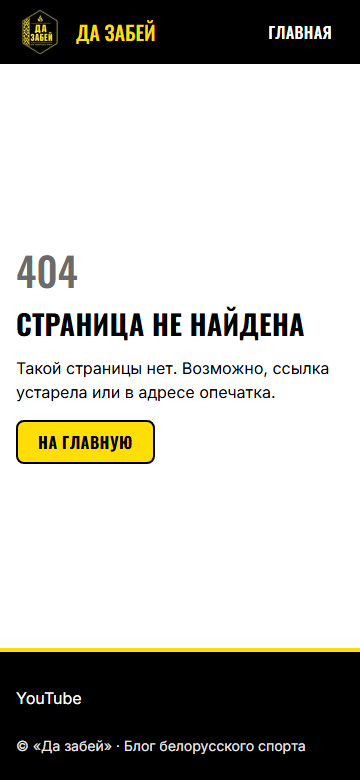
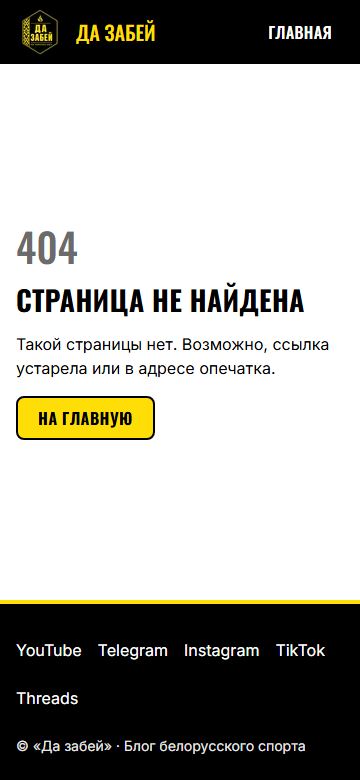
feat(layout): add confirmed social links to the footer (DAZBY-25)

Changed region(s): [[0.0306, 0.2769, 0.9167, 0.6154], [0.0, 0.7692, 1.0, 0.9231]]

diff --git a/src/config/site.ts b/src/config/site.ts
@@ -1,13 +1,13 @@
 /**
- * Site-wide links. An empty URL hides the link: Telegram, Instagram and TikTok
- * stay hidden until the owner confirms the addresses (DAZBY-25).
+ * Site-wide links (confirmed by the owner, DAZBY-25). An empty URL hides the link.
  */
 export const siteConfig = {
   social: [
     { id: "youtube", url: "https://www.youtube.com/@da_zby" },
-    { id: "telegram", url: "" },
-    { id: "instagram", url: "" },
-    { id: "tiktok", url: "" },
+    { id: "telegram", url: "https://t.me/da_zby" },
+    { id: "instagram", url: "https://www.instagram.com/da_zby" },
+    { id: "tiktok", url: "https://www.tiktok.com/@da_zby" },
+    { id: "threads", url: "https://www.threads.com/@da_zby" },
   ],
   /** Header navigation: only pages that already exist. */
   nav: [{ id: "home", href: "/" }],

diff --git a/src/components/layout/layout.test.tsx b/src/components/layout/layout.test.tsx
@@ -26,6 +26,19 @@ describe("SiteHeader", () => {
 });
 
 describe("SiteFooter", () => {
+  it("shows every confirmed social link", () => {
+    render(<SiteFooter />);
+    const nav = screen.getByRole("navigation", { name: "Мы в соцсетях" });
+    const names = within(nav)
+      .getAllByRole("link")
+      .map((link) => link.textContent?.replace(/\s*\(.*\)$/, "").trim());
+    expect(names).toEqual(["YouTube", "Telegram", "Instagram", "TikTok", "Threads"]);
+    expect(within(nav).getByRole("link", { name: /Telegram/ })).toHaveAttribute(
+      "href",
+      "https://t.me/da_zby",
+    );
+  });
+
   it("shows YouTube and hides socials without a URL", () => {
     render(<SiteFooter />);
     const nav = screen.getByRole("navigation", { name: "Мы в соцсетях" });

diff --git a/src/messages/ru.ts b/src/messages/ru.ts
@@ -20,6 +20,7 @@ export const ru = {
       telegram: "Telegram",
       instagram: "Instagram",
       tiktok: "TikTok",
+      threads: "Threads",
     },
   },
   home: {
